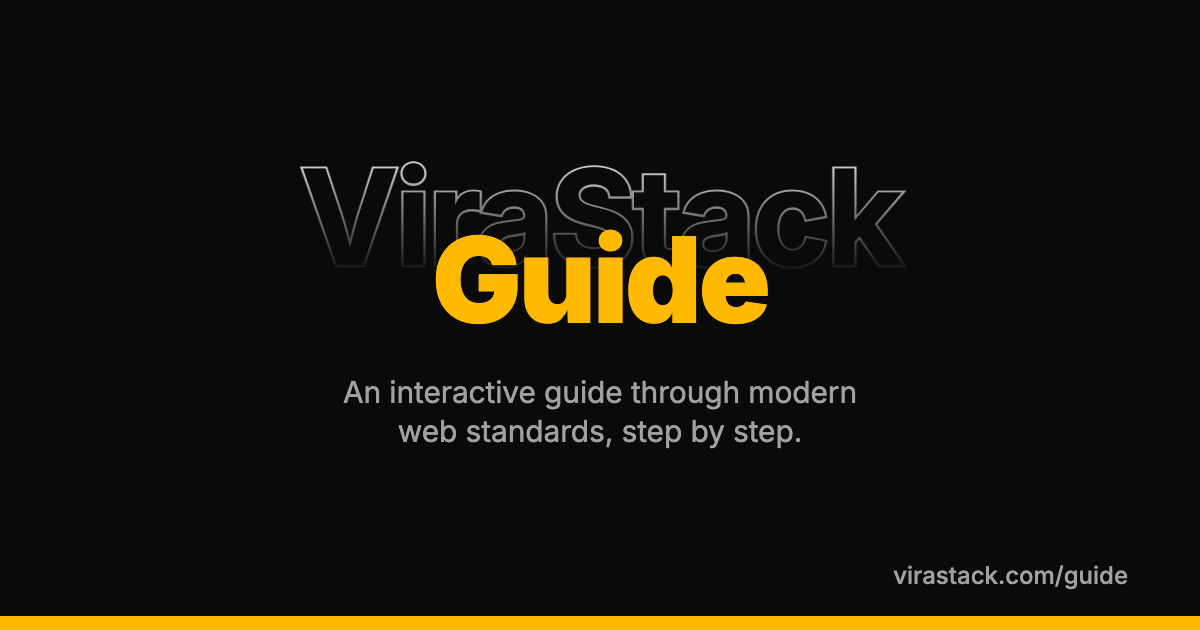
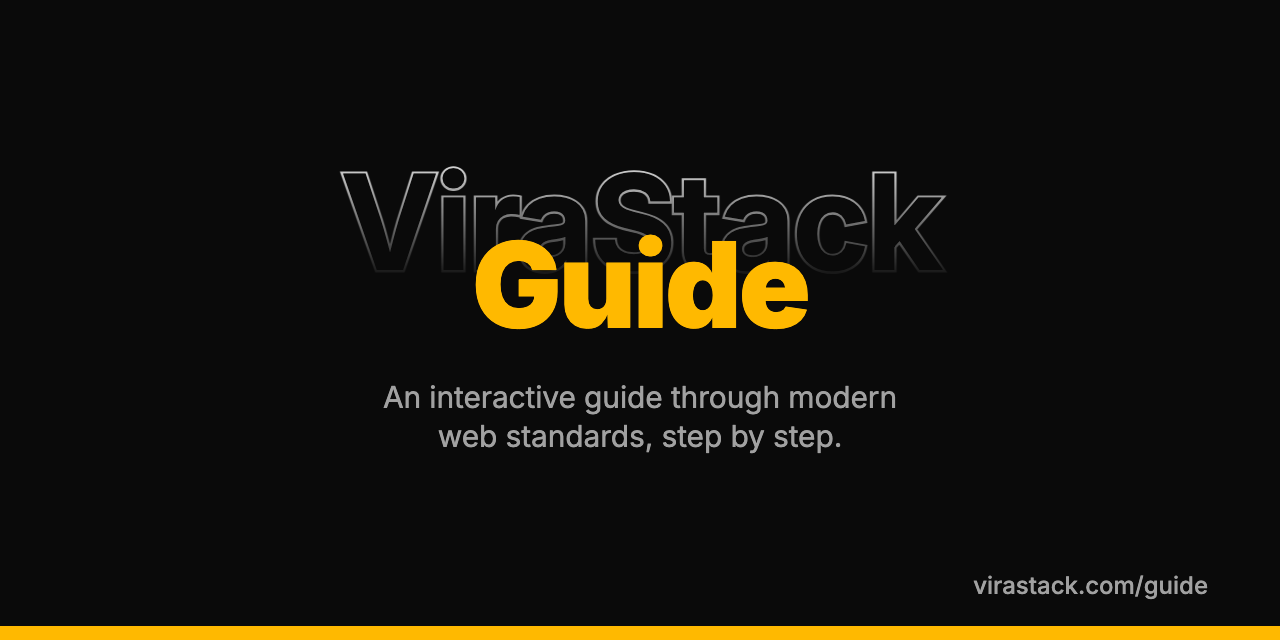
feat(seo): serve the Open Graph cards at 1280x640

Changed region(s): [[0.2467, 0.2413, 0.7708, 0.5127], [0.2775, 0.6032, 0.7092, 0.7238], [0.74, 0.9048, 0.9558, 0.9349]]

diff --git a/src/lib/og.ts b/src/lib/og.ts
@@ -7,6 +7,9 @@ import { siteConfig } from "@/config/site.config";
 
 export const OG_SIZE = { width: 1200, height: 630 } as const;
 
+/** Pre-rendered landing cards are 2:1 (X large card and GitHub social preview). */
+export const LANDING_OG_SIZE = { width: 1280, height: 640 } as const;
+
 export const OG_COLORS = {
   background: "#f7f7f2",
   foreground: "#161616",
@@ -94,7 +97,7 @@ export function buildLandingOgImageMetadata(
   const url = `/og-images/${locale}/${id}.png`;
 
   return {
-    openGraph: { images: [{ url, width: OG_SIZE.width, height: OG_SIZE.height, alt }] },
+    openGraph: { images: [{ url, ...LANDING_OG_SIZE, alt }] },
     twitter: { images: [{ url, alt }] },
   };
 }
